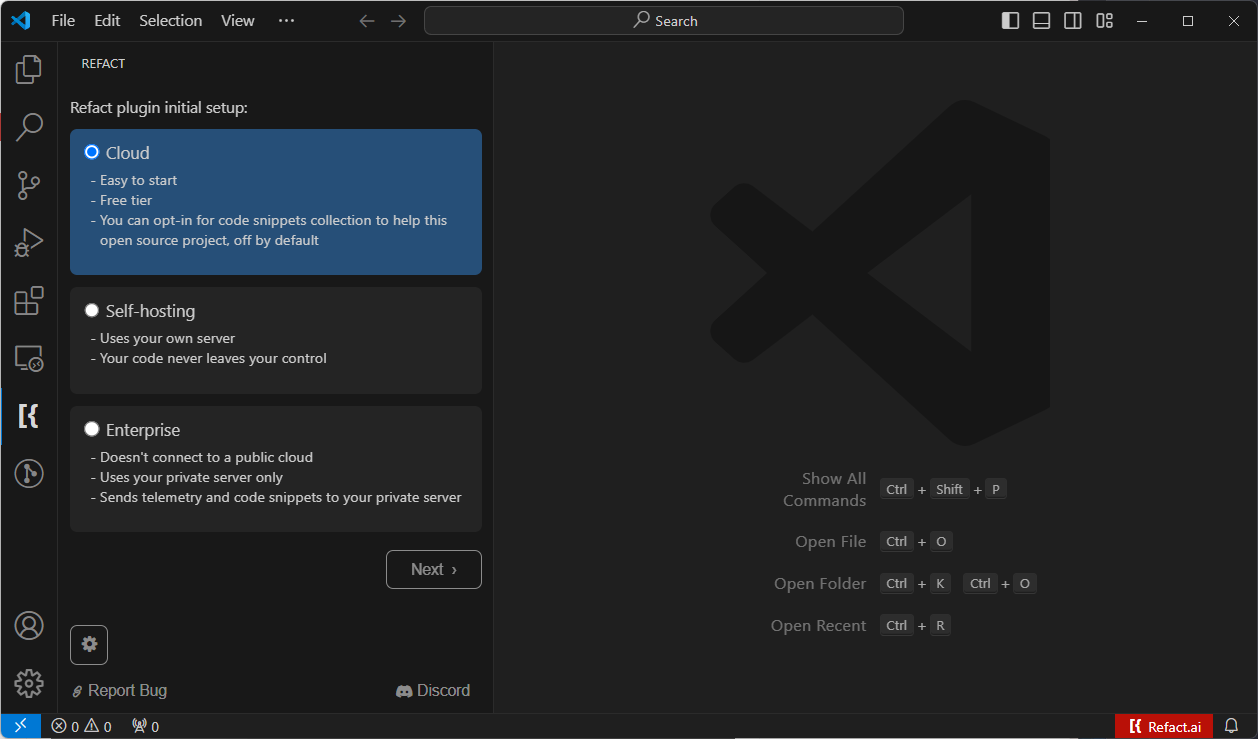
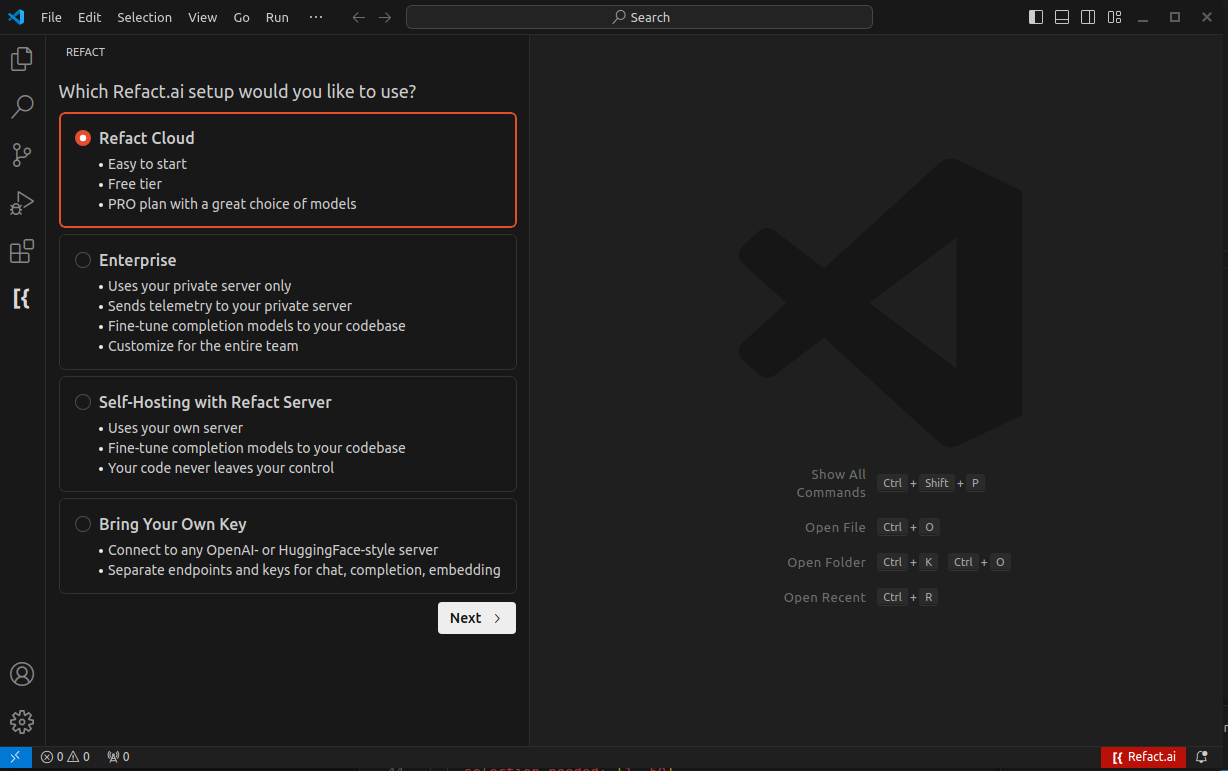
Update login instructions for JetBrains and VS Code, add documentation for BYOK, and update @-command descriptions, plus minor fixes (#47)

diff --git a/src/content/docs/features/ai-chat.md b/src/content/docs/features/ai-chat.md
@@ -8,8 +8,42 @@ You can ask questions about your code in the integrated AI chat, and it can prov
 ### **Context Length**
 Refact analyzes the code up to a certain length to provide suggestions.
 Context length depends on the plan you have chosen for your account:
-- **Free**: 4096 characters
-- **Pro**: 16384 characters
+- **Free**: 8000 tokens
+- **Pro**: 32000 tokens
+
+## Modes of Operation
+
+With Refact.ai, you have access to three distinct modes that enhance your interaction with the AI chat: **Quick**, **Explore**, and **Agent**.
+
+### Quick Mode
+In **Quick Mode**, the model responds instantly without accessing external tools. This mode is ideal for rapid interactions and quick queries. You can enrich your experience with the following @-commands:
+
+- **@web**: Convert any webpage into plain text for quick summarization and interaction. Simply use `@web` followed by the URL (e.g., `@web https://refact.ai/`) to fetch and convert the content into text that can be used within your chat.
+  
+- **@search**: Quickly locate similar code or text within your workspace, directory, or file. Use `@search` followed by your query (e.g., `@search create table`) to find matching content for seamless exploration and interaction.
+
+### Explore Mode
+**Explore Mode** is more advanced than Quick Mode, utilizing exploration tools to gather context about the project before answering questions. This mode automatically employs @-commands such as:
+
+- **@definition**: Fetch definitions of symbols within the codebase.
+  
+- **@reference**: Locate usages of specific functions or classes throughout the project.
+  
+- **@tree**: View the project structure and navigate through multiple files to understand the context better.
+
+Explore Mode allows for a deeper understanding of the codebase, enabling the model to provide more informed answers.
+
+### Agent Mode
+**Agent Mode** introduces agent capabilities that significantly enhance the way you program. While responses may take longer, this mode offers higher-quality solutions for complex challenges. Key features include:
+
+- **Contextual Awareness**: The model can analyze and understand the broader context of your code, leading to more relevant suggestions and solutions.
+  
+- **Task Automation**: Agent Mode can assist in automating repetitive tasks, allowing you to focus on more critical aspects of your project.
+
+- **Complex Problem Solving**: It is designed to tackle intricate programming challenges by leveraging its understanding of the codebase and available resources.
+
+While we are still refining Agent Mode, it already provides valuable assistance for developers looking to enhance their productivity and code quality.
+
 
 ## @-commands
 
@@ -17,40 +51,53 @@ This section outlines various commands that can be used in the AI chat. Below yo
 
 ![Chat Commands](../../../assets/chat-commands.png)
 
-### `@workspace`
+#### `@help`
 
-- **Description**: Searches within VecDB for any specified query. This command allows you to search for any query within your repository/workspace.
-- **Usage**:
-  - Single-line Query: Append the query directly after the command, e.g., `@workspace Something definition`.
-  - Multi-line Query: Type the command followed by pressing `Enter`. Subsequent lines entered will be considered part of the query, allowing for multi-line entries such as code snippets.
+- **Description**: Provides information about available commands and their usage.
+- **Usage**: Type `@help`.
 
-### `@file`
+#### `@file`
 
 - **Description**: Attaches a file to the chat.
 - **Usage**: 
   - To attach a whole file, use the command followed by the file name, e.g., `@file example.ext`.
   - To specify a particular section of a file, include the line numbers, e.g., `@file large_file.ext:42` or for a range, `@file large_file.ext:42-56`.
 
-### `@definition`
+#### `@definition`
 
 - **Description**: Retrieves the definition of a symbol.
 - **Usage**: Type `@definition` followed by the symbol name, e.g., `@definition MyClass`.
 
-### `@references`
+#### `@references`
 
 - **Description**: Returns references for a symbol, including usage examples.
 - **Usage**: Type `@references` followed by the symbol name, e.g., `@references MyClass`.
 
-### `@symbols-at`
+#### `@symbols-at`
 
 - **Description**: Searches for and adds symbols near a specified line in a file to the chat context.
 - **Usage**: Specify both the file and the line number, e.g., `@symbols-at some_file.ext:42`.
+
+#### `@search`
+
+- **Description**: Find similar pieces of code or text using the vector database.
+- **Usage**: Type `@search` followed by your query and scope, e.g., `@search "function definition" workspace`.
+
+#### `@tree`
+
+- **Description**: Get a files tree with symbols for the project. Use it to get familiar with the project, file names, and symbols.
+- **Usage**: Type `@tree` followed by an optional path, e.g., `@tree some_directory/`.
+
+#### `@web`
+
+- **Description**: Fetch a web page and convert to readable plain text.
+- **Usage**: Type `@web` followed by the URL, e.g., `@web http://example.com`.
 
 ## Chat Initialization Options
 
 Upon starting a new chat, several options are available that mimic the above commands:
 
-- `Search workspace`: Equivalent to using `@workspace`. It uses the entered query to perform a search.
+- `Search workspace`: Equivalent to using `@search`. It uses the entered query to perform a search. 
 - `Attach current_file.ext`: Similar to the `@file` command. It attaches the file at the current cursor position (CURSOR_LINE), useful for dealing with large files.
 - `Lookup symbols`: Corresponds to the `@symbols-at` command. It extracts symbols around the cursor position and searches them in the AST index.
 - `Selected N lines`: Adds the currently selected lines as a snippet for analysis or modification. This is similar to embedding code within backticks ``` in the chat.
@@ -58,7 +105,7 @@ Upon starting a new chat, several options are available that mimic the above com
 ## Enabling commands
 
 To use @-commands in the AI chat, you need to enable specific settings:
-- `@workspace` - enable the `Enable embedded vecdb for search` checkbox under the `Refactai: Vecdb` section.
+- `@search` - enable the `Enable vector database` checkbox under the `Refactai: Vecdb` section.
 - `@definition`, `@file`, `@references`, `@symbols-at` - enable the `Enable syntax parsing` checkbox under the `Refactai: Ast` section.
 
 Read more in the [Enabling RAG Documentation](https://docs.refact.ai/features/context/).

diff --git a/src/content/docs/installation/jetbrains.md b/src/content/docs/installation/jetbrains.md
@@ -3,15 +3,26 @@ title: Refact for JetBrains IDEs
 description: A page which explains how to install and use Refact for JetBrains IDEs
 ---
 
-For JetBrains products, after installing the plugin from the [marketplace](https://plugins.jetbrains.com/plugin/20647-codify), press `Cmd + ,` to open the settings panel.
+For JetBrains products, after installing the plugin from the [marketplace](https://plugins.jetbrains.com/plugin/20647-codify), press the Refact logo to open the UI of the plugin.
 
-Find `Refact` in the list of plugins and log in to your Refact account.
+Pick one of the available versions and click the **Next** button.
 
-![JetBrains Login](../../../assets/jetbrains-login.png)
+![JetBrains Login](../../../assets/jetbrains-login_start.png)
 
-You will see your account details and privacy settings.
+The quickest way to get started is with **Cloud** option. When pressing the **Next** button, you will see an interface similar to the one below:
 
-![JetBrains Dashboard](../../../assets/jetbrains-dashboard.png)
+![Refact Cloud Login](../../../assets/jetbrains_refact_cloud_login.png)
+
+When pressing the **Login** or **Create Account** button, you will be redirected to the Refact's login page in your browser.
+
+After completing the login process, the interface of the sidebar will change to the following:
+
+![Refact Sidebar](../../../assets/jetbrains_refact_loggedin.png)
+
+For the Self-hosted and Enterprise options, follow one of the following guides:
+
+- [Self-hosted Login](https://docs.refact.ai/guides/version-specific/self-hosted/#custom-inference-setup)
+- [Enterprise Login](https://docs.refact.ai/guides/version-specific/enterprise/#setting-up-the-plugins)
 
 
 # Early Access Program
@@ -19,7 +30,6 @@ You will see your account details and privacy settings.
 If you feel adventurous, add Early Access Program to your Plugins settings over here:
 
 ![Early Access Program](../../../assets/jetbrains-early-access-program.jpg)
-jetbrains-early-access-program.jpg
 
 In a small window called "Custom Plugin Repositories" add "https://plugins.jetbrains.com/plugins/eap/list",
 then update the plugin.

diff --git a/src/content/docs/byok.md b/src/content/docs/byok.md
@@ -1,0 +1,24 @@
+---
+title: "Bring Your Own Key (BYOK)"
+---
+
+## Introduction
+Bring Your Own Key (BYOK) allows users to specify their API keys and select models for chat, completion, and embedding tasks across different AI platforms. This feature enables seamless integration with various services while maintaining control over API keys.
+The Bring Your Own Key (BYOK) feature allows users to specify their API keys and select models for chat, completion, and embedding tasks across various AI platforms. This functionality ensures seamless integration with different services while providing users with control over their API keys.
+
+## Configuration Steps
+
+Select the **Bring Your Own Key** option and click the **Next** button.
+
+![Refact BYOK Login page](../../assets/byok_login_start.png)
+
+Click on **Edit BYOK file** to open the `bring-your-own-key.yaml` file:
+
+![Refact edit BYOK](../../assets/edit_byok.png)
+
+In the file, specify your API key, model name, and endpoints as necessary.
+
+![Bring your own key](../../assets/byok.png)
+
+## Additional Resources
+For more examples and configurations, please visit the [Refact GitHub repository](https://github.com/smallcloudai/refact-lsp/tree/main/bring_your_own_key).

diff --git a/src/content/docs/features/code-completion.md b/src/content/docs/features/code-completion.md
@@ -11,7 +11,7 @@ Refact utilizes a technique called **Fill-in-the-middle** (FIM), where the conte
 
 ## Code Completion Models
 
-- **Cloud Version**: The cloud version of Refact uses the `Refact-1.6-fim` model.
+- **Cloud Version**: The cloud version of Refact uses the `Refact-1.6-fim` and `starcoder2/3b` model.
 - **Self-Hosted Version**: If you opt for the self-hosted version, you have the flexibility to choose from a variety of models. For a detailed list of available models, refer to the [Supported Models](https://docs.refact.ai/supported-models/) section of the documentation.
 - **Enterprise Version**: The enterprise version of Refact allows you to use the models available in the Self-hosted version and additional vLLM models.
 
@@ -20,8 +20,8 @@ Refact utilizes a technique called **Fill-in-the-middle** (FIM), where the conte
 ### **Context Length**
 Refact analyzes the code up to a certain length to provide suggestions.
 Context length depends on the plan you have chosen for your account:
-- **Free**: 2048 characters
-- **Pro**: 4096 characters
+- **Free**: 2048 tokens 
+- **Pro**: 4096 tokens
 
 ### **Cache Mechanism** 
 To enhance performance, Refact caches previous computations and suggestions.

diff --git a/src/content/docs/features/ai-toolbox.md b/src/content/docs/features/ai-toolbox.md
@@ -6,7 +6,7 @@ description: A page about functions in the Refact AI Toolbox
 Refact.ai Toolbox is a set of functions that can be used to 
 refactor, analyze, and improve your code.
 
-The Toolbox can be accessed by pressing `F1`. It will open a modal 
+The Toolbox can be accessed by pressing `Alt+T`. It will open a modal 
 window associated with a specific line of code or a block of code.
 
 At the moment, AI Toolbox only works with VS Code.
@@ -28,7 +28,7 @@ The following commands are available in the Toolbox:
 ## Custom toolbox commands
 
 You can also create your own toolbox commands. To do that, you need to press 
-`F1` and type `/help` in the Refact.ai console. At the bottom, you will see a 
+`Alt+T` and type `/help` in the Refact.ai console. At the bottom, you will see a 
 button called `Customize toolbox`. Press it and the `customization.yaml` 
 file will open.
 

diff --git a/src/content/docs/faq.md b/src/content/docs/faq.md
@@ -19,7 +19,7 @@ Our own model is Refact 1.6B code LLM. It's State-of-the-art for the size and In
 For chat we use models from the GPT family, you have the option to opt-out of them.  
 In the self-hosted version we also have StarCoder, Code Llama and WizardCoder models. 
 
-For a full list of our supported models and their functionality, check our [docs](https://docs.refact.ai/supported-models/supported-models/). 
+For a full list of our supported models and their functionality, check our [docs](https://docs.refact.ai/supported-models/). 
 
 ### Do you plan to support more IDEs? 
 

diff --git a/src/content/docs/installation/vs-code.md b/src/content/docs/installation/vs-code.md
@@ -13,7 +13,7 @@ The quickest way to get started is with **Cloud** option. When pressing the **Ne
 
 ![Refact Cloud Login](../../../assets/refact_cloud_login.png)
 
-When pressing the **Login/Create Account** button, you will be redirected to the Refact's login page in your browser.
+When pressing the **Login** or **Create Account** button, you will be redirected to the Refact's login page in your browser.
 
 After completing the login process, the interface of the sidebar will change to the following:
 

diff --git a/src/content/docs/supported-models.md b/src/content/docs/supported-models.md
@@ -7,6 +7,7 @@ description: Supported Models in Refact
 
 ### Completion models 
 - Refact/1.6B  
+- starcoder2/3b
 
 ### Chat models
 - GPT 3.5
